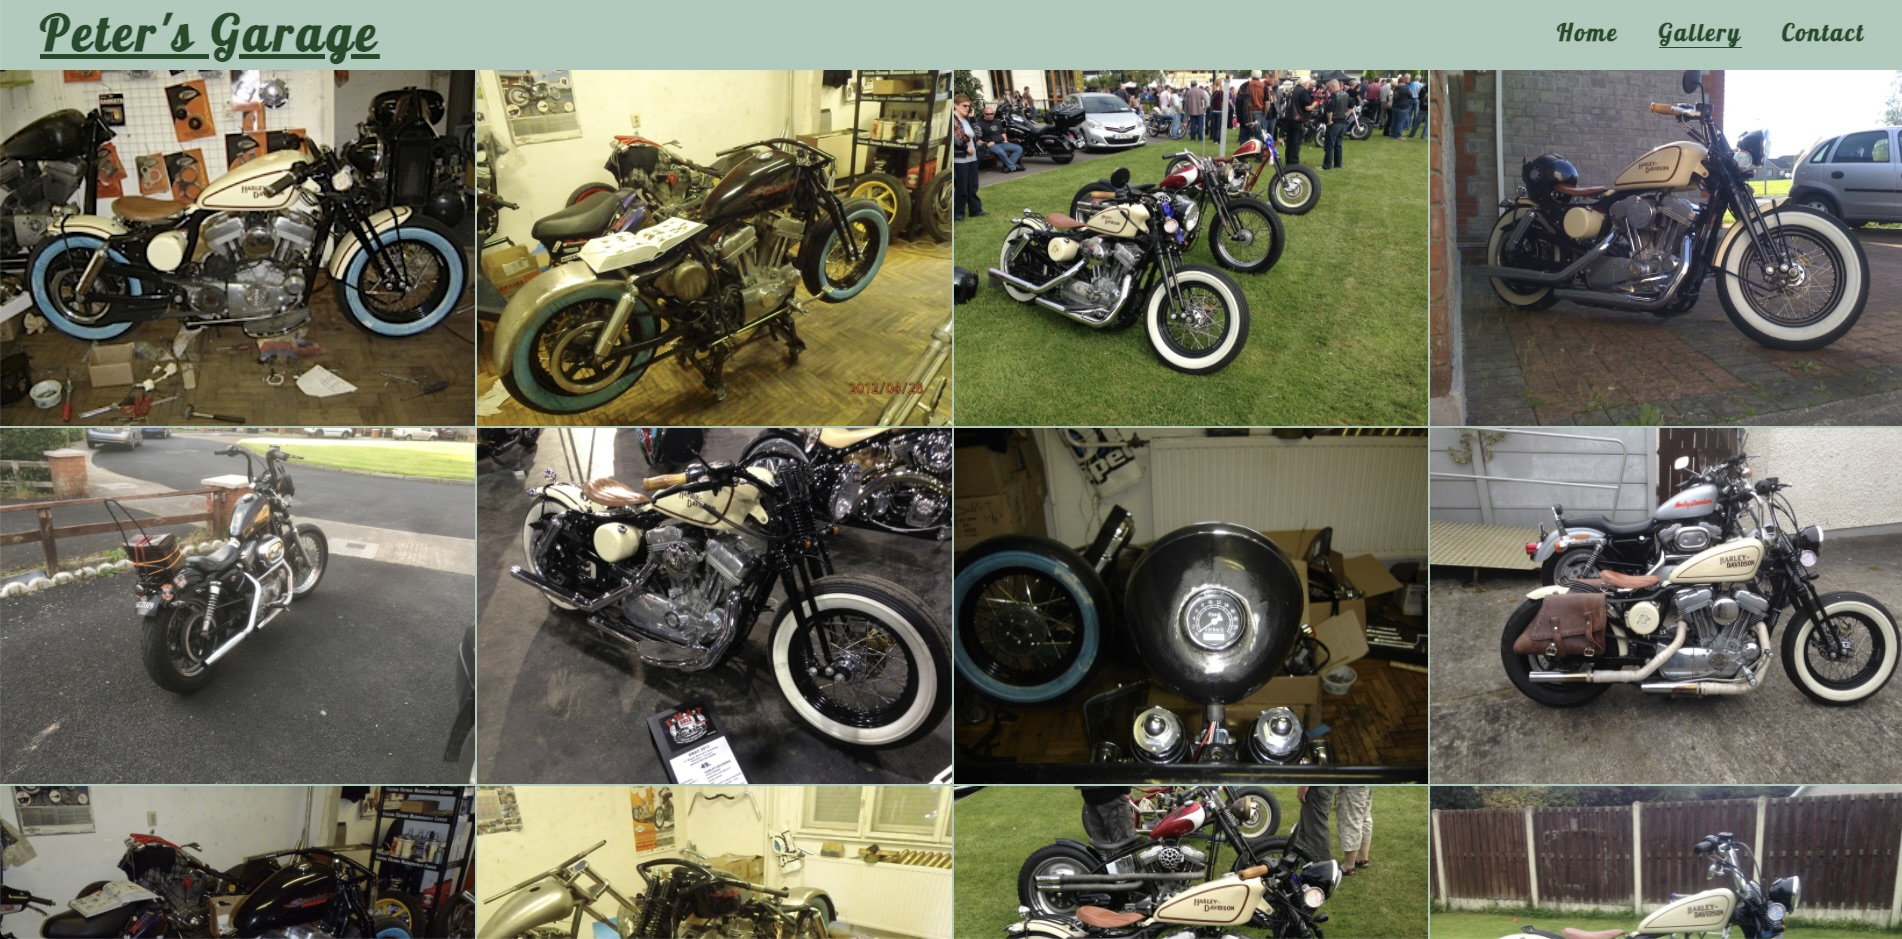
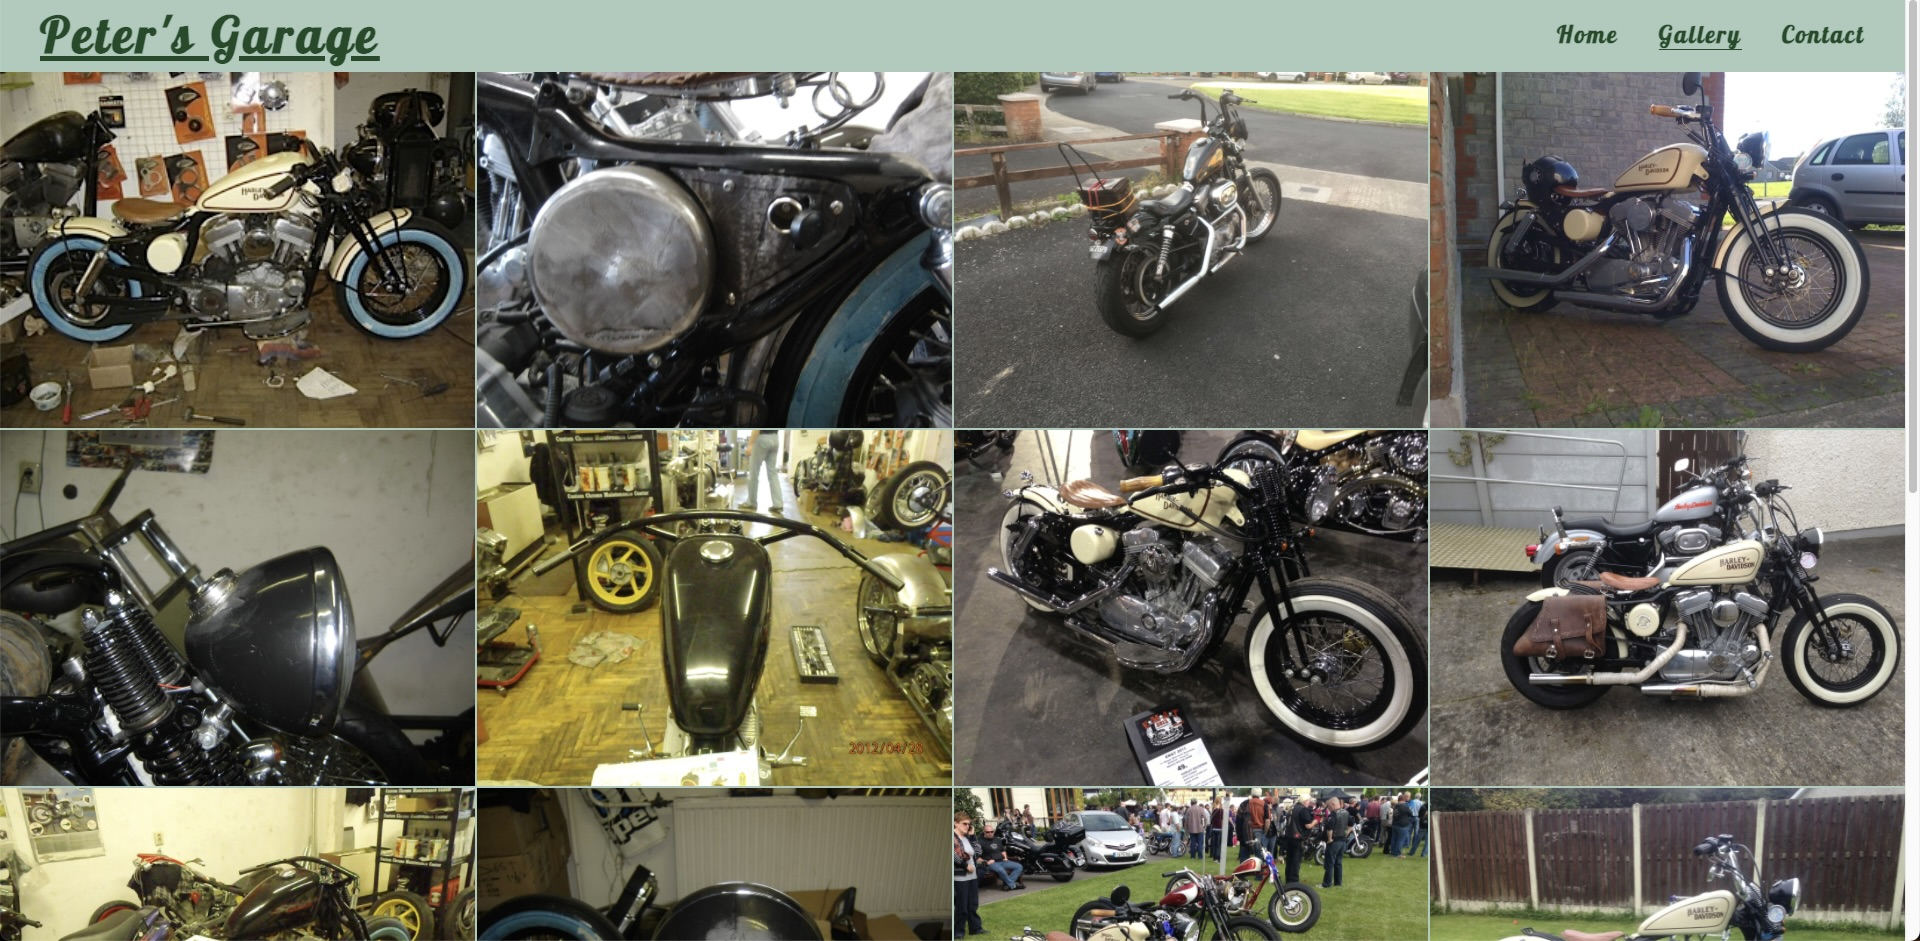
delete unused images from  images folder

diff --git a/gallery.html b/gallery.html
@@ -28,22 +28,22 @@
 
 </header>
 <h4>
-    <img src="assets/images/IMG_1357.jpg" loading="auto" alt="build">
-    <img src="assets/images/build22.jpg" loading="auto" alt="build">
-    <img src="assets/images/build5.jpg" loading="auto" alt="build">
-    <img src="assets/images/build4.jpg" loading="auto" alt="build">
-    <img src="assets/images/build6.jpg" loading="auto" alt="build">
-    <img src="assets/images/build8.jpg" loading="auto" alt="build">
-    <img src="assets/images/IMG_1320.jpg" loading="auto" alt="bobber headlamp">
-    <img src="assets/images/96withbaginback.jpg" loading="auto" alt="black sportster on the driveway">
-    <img src="assets/images/IMG_1733.jpg" loading="auto" alt="ematwinner">
-    <img src="assets/images/IMG_2087.jpg" loading="auto" alt="three winner">
-    <img src="assets/images/creamprize.jpg" loading="auto" alt="bobberbikefest">
-    <img src="assets/images/buil23.jpg" loading="auto" alt="bobber rear">
-    <img src="assets/images/creamwithhelmet.jpg" loading="auto" alt="bobber with helmet">
-    <img src="assets/images/creamwithsilver.jpg" loading="auto" alt="bobber with 883custom">
-    <img src="assets/images/sporicreamwithprizes.jpg" loading="auto" alt="alltime winner">
-    <img src="assets/images/IMG_2143.jpg" loading="auto" alt="bobber with a prize">
+    <img src="assets/images/1.webp" alt="build">
+    <img src="assets/images/2.webp" alt="build">
+    <img src="assets/images/3.webp" alt="build">
+    <img src="assets/images/4.webp" alt="build">
+    <img src="assets/images/5.webp" alt="bobber rear">
+    <img src="assets/images/6.webp" alt="build">
+    <img src="assets/images/7.webp" alt="build">
+    <img src="assets/images/8.webp" alt="bobber headlamp">
+    <img src="assets/images/9.webp" alt="black sportster on the driveway">
+    <img src="assets/images/10.webp" alt="ematwinner">
+    <img src="assets/images/11.webp" alt="three winner">
+    <img src="assets/images/12.webp" alt="bobberbikefest">
+    <img src="assets/images/13.webp" alt="bobber with helmet">
+    <img src="assets/images/14.webp" alt="bobber with 883custom">
+    <img src="assets/images/15.webp" alt="alltime winner">
+    <img src="assets/images/16.webp" alt="bobber with a prize">
 </h4>
     
     <footer>

diff --git a/assets/css/style.css b/assets/css/style.css
@@ -17,7 +17,6 @@ body {
 
 /* mdn wedocs */
 
-
 h1 {
     font-family: Pushster, sans-serif;
     letter-spacing: 4px;
@@ -32,9 +31,7 @@ h2 {
     letter-spacing: 1px;
     font-size: 25px;
     color: #0a4e43;
-    
 }
-
 #customculture {
     font-family: Lato, sans-serif;
     letter-spacing: 2px;
@@ -50,8 +47,6 @@ h3 {
     background: url('../images/IMG_2118.jpg') no-repeat center center;
     
 }
-
-
 .custombikes {
     text-align:center;
     font-size: 26px;
@@ -116,8 +111,6 @@ h3 {
         background: url('../images/whitechopperflip.jpg') no-repeat center center;
     
 }
-
-
 #cover-text {
     font-size: 130%;
     font-family: Lato, sans-serif;
@@ -239,10 +232,7 @@ h4 img{
     
 /* For medium screens sizes from 950px wide and down */
 @media screen and (max-width: 950px){
-    
-
-
-   h4 {
+    h4 {
         column-count: 3;
     }
 }
